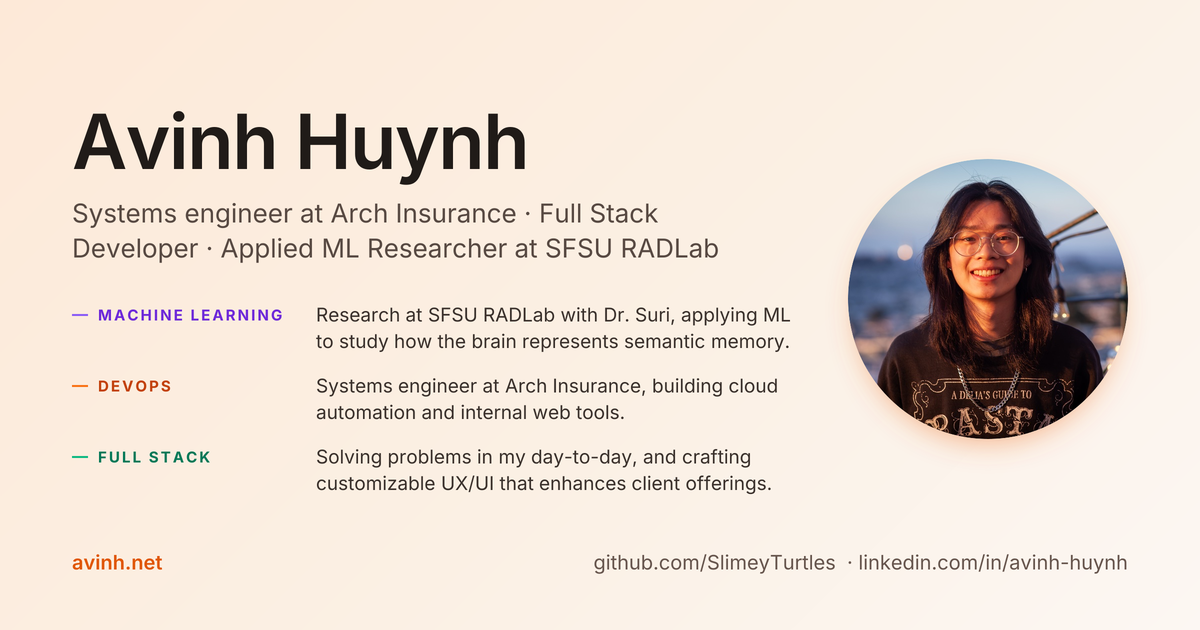
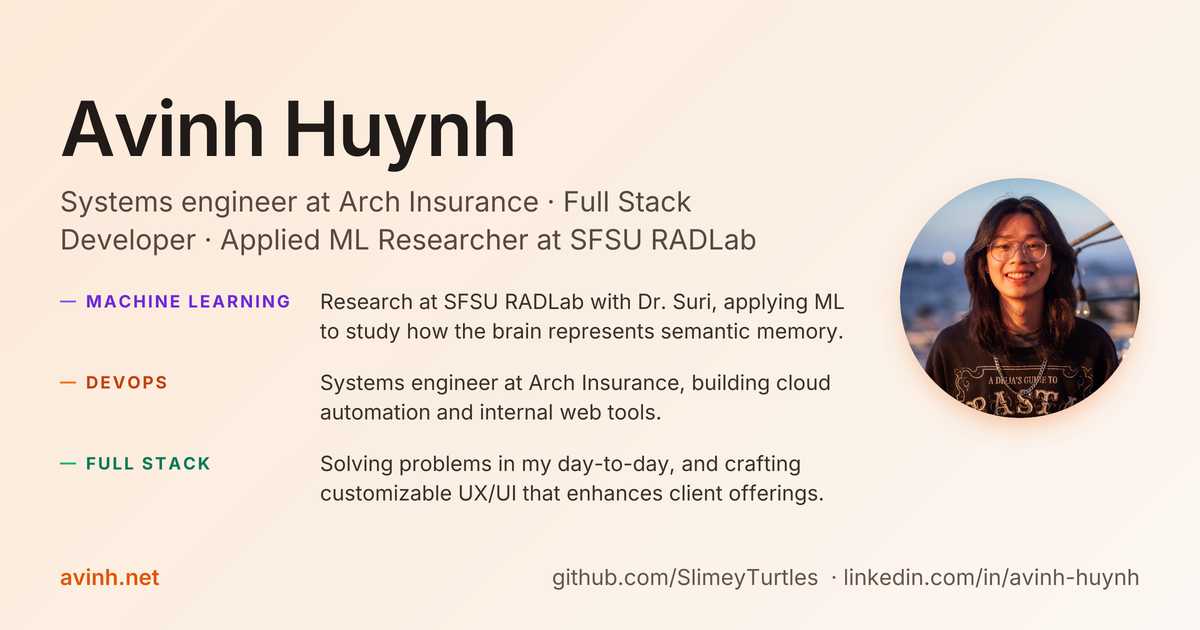
inscreased social card size

diff --git a/src/app/social-card/CardContent.jsx b/src/app/social-card/CardContent.jsx
@@ -33,7 +33,7 @@ export default function CardContent({ headshotSrc, scale = 1 }) {
         flexDirection: "column",
         backgroundImage:
           "linear-gradient(135deg, hsl(28, 90%, 92%) 0%, hsl(30, 75%, 94%) 55%, hsl(30, 60%, 97%) 100%)",
-        padding: `${s(48)}px ${s(72)}px ${s(56)}px`,
+        padding: `${s(32)}px ${s(60)}px ${s(40)}px`,
         fontFamily: "Inter",
         color: "hsl(20, 14%, 11%)",
         position: "relative",
@@ -44,7 +44,7 @@ export default function CardContent({ headshotSrc, scale = 1 }) {
           display: "flex",
           flexDirection: "row",
           alignItems: "center",
-          gap: s(56),
+          gap: s(40),
           flex: 1,
         }}
       >
@@ -62,10 +62,10 @@ export default function CardContent({ headshotSrc, scale = 1 }) {
           </div>
           <div
             style={{
-              fontSize: s(26),
+              fontSize: s(28),
               color: "hsl(20, 14%, 30%)",
               lineHeight: 1.35,
-              marginBottom: s(36),
+              marginBottom: s(28),
               maxWidth: s(720),
               display: "flex",
             }}
@@ -73,7 +73,7 @@ export default function CardContent({ headshotSrc, scale = 1 }) {
             {"Systems engineer at Arch Insurance · Full Stack Developer · Applied ML Researcher at SFSU RADLab"}
           </div>
 
-          <div style={{ display: "flex", flexDirection: "column", gap: s(18) }}>
+          <div style={{ display: "flex", flexDirection: "column", gap: s(22) }}>
             {focusAreas.map((a) => (
               <div
                 key={a.tag}
@@ -81,7 +81,7 @@ export default function CardContent({ headshotSrc, scale = 1 }) {
                   display: "flex",
                   flexDirection: "row",
                   alignItems: "flex-start",
-                  gap: s(24),
+                  gap: s(20),
                 }}
               >
                 <div
@@ -90,8 +90,8 @@ export default function CardContent({ headshotSrc, scale = 1 }) {
                     flexDirection: "row",
                     alignItems: "center",
                     gap: s(10),
-                    width: s(220),
-                    height: s(27),
+                    width: s(240),
+                    height: s(30),
                     flexShrink: 0,
                   }}
                 >
@@ -105,9 +105,9 @@ export default function CardContent({ headshotSrc, scale = 1 }) {
                   />
                   <div
                     style={{
-                      fontSize: s(15),
+                      fontSize: s(17),
                       fontWeight: 700,
-                      letterSpacing: "0.14em",
+                      letterSpacing: "0.12em",
                       color: a.color,
                       lineHeight: 1,
                       display: "flex",
@@ -118,7 +118,7 @@ export default function CardContent({ headshotSrc, scale = 1 }) {
                 </div>
                 <div
                   style={{
-                    fontSize: s(19),
+                    fontSize: s(21),
                     color: "hsl(20, 14%, 20%)",
                     lineHeight: 1.4,
                     display: "flex",
@@ -134,8 +134,8 @@ export default function CardContent({ headshotSrc, scale = 1 }) {
 
         <div
           style={{
-            width: s(280),
-            height: s(280),
+            width: s(240),
+            height: s(240),
             display: "flex",
             flexShrink: 0,
           }}
@@ -144,11 +144,11 @@ export default function CardContent({ headshotSrc, scale = 1 }) {
           <img
             src={headshotSrc}
             alt="Avinh Huynh"
-            width={s(280)}
-            height={s(280)}
+            width={s(240)}
+            height={s(240)}
             style={{
-              width: s(280),
-              height: s(280),
+              width: s(240),
+              height: s(240),
               objectFit: "cover",
               borderRadius: 9999,
               boxShadow: "0 24px 60px -20px rgba(234, 88, 12, 0.45)",
@@ -163,7 +163,7 @@ export default function CardContent({ headshotSrc, scale = 1 }) {
           flexDirection: "row",
           justifyContent: "space-between",
           alignItems: "center",
-          fontSize: s(20),
+          fontSize: s(22),
           color: "hsl(20, 14%, 35%)",
         }}
       >
